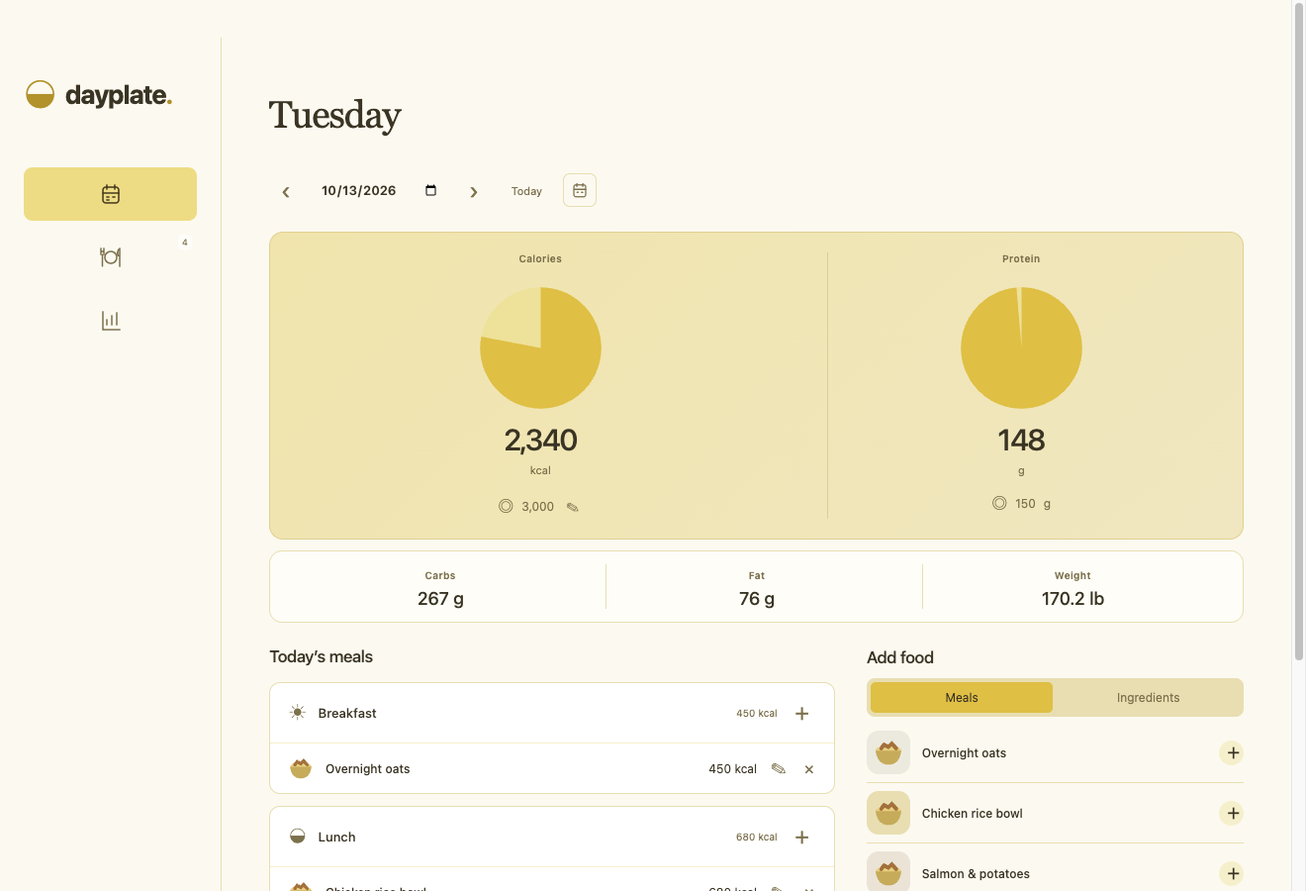
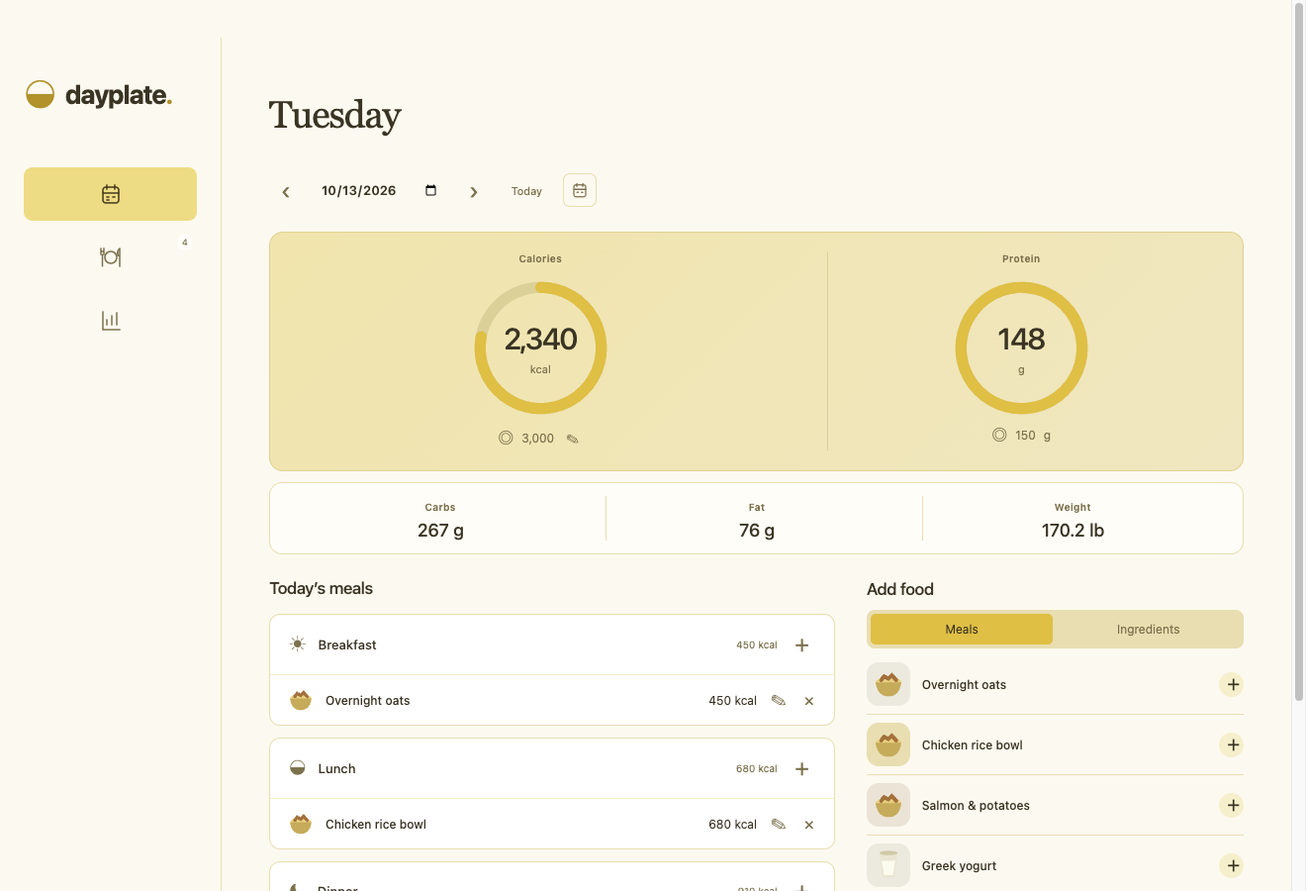
Replace filled nutrition pies with yellow progress rings

diff --git a/src/polish.css b/src/polish.css
@@ -1,13 +1,17 @@
 :root{--green:#718162}html{scroll-behavior:smooth}button{-webkit-tap-highlight-color:transparent;transition:background .2s,box-shadow .2s,transform .18s}button:active:not(:disabled){transform:scale(.96)}input,select,textarea{font:inherit}textarea{resize:vertical;padding:12px;border:1px solid var(--line);border-radius:9px;background:#fffdf8;color:inherit}textarea:focus-visible{outline:3px solid #8b7b55;outline-offset:2px}main>section:not([hidden]){animation:page-enter .38s cubic-bezier(.2,.8,.2,1)}.analytics-stat{animation:card-enter .5s cubic-bezier(.2,.8,.2,1) both}.analytics-stat:nth-child(2){animation-delay:40ms}.analytics-stat:nth-child(3){animation-delay:80ms}.analytics-stat:nth-child(4){animation-delay:120ms}.analytics-stat:nth-child(5){animation-delay:160ms}.analytics-stat:nth-child(6){animation-delay:200ms}.analytics-stats{grid-template-columns:repeat(3,minmax(0,1fr))}.analytics-stat{box-shadow:0 3px 16px #76612d05}.analytics-bar>span{transform-origin:bottom;animation:bar-grow .6s cubic-bezier(.2,.8,.2,1) both}.analytics-bar:nth-child(3n)>span{animation-delay:50ms}.analytics-bar:nth-child(3n+1)>span{animation-delay:100ms}.analytics-bar:nth-child(3n+2)>span{animation-delay:150ms}.weight-line{stroke-dasharray:1;stroke-dashoffset:1;animation:line-draw 1s ease forwards}.weight-point{transform-box:fill-box;transform-origin:center;animation:point-pop .45s .4s both}.weight-trend{width:100%;height:210px;display:block;margin:20px 0}.weight-trend text{font-size:10px;fill:#8b7b55}.weight-overview{display:grid;grid-template-columns:repeat(3,minmax(0,1fr));gap:15px;padding:20px 0 4px}.weight-overview strong{display:block;font-size:28px;font-weight:500;margin-top:13px;letter-spacing:-.6px}.weight-overview strong small{font-size:12px;color:var(--muted);font-weight:400;letter-spacing:0}.weight-overview p{font-size:10px;color:var(--muted);line-height:1.7;margin-bottom:0}.weight-empty{font-size:12px;color:var(--muted);padding:25px 0 10px}.weight-history-details{border-top:1px solid var(--line);padding-top:16px;font-size:11px;color:var(--muted)}.weight-history-details summary{cursor:pointer}.weight-history button{font-size:12px;padding:0;text-align:left}.weight-analytics .primary{font-size:11px}.danger{color:#ae6654}.modal-actions .danger{margin-right:auto}dialog[open]{animation:sheet-in .32s cubic-bezier(.18,.9,.25,1.1)}dialog::backdrop{animation:backdrop-in .2s ease}.analytics-ranges button[aria-pressed=true]{box-shadow:0 2px 5px #97732115}.analytics-panel .section-heading{flex-wrap:wrap}.nav:hover{background:#f5edd3}.nav.active:hover{background:#f6df8b}#toast.visible{animation:toast-in .25s ease}
 @keyframes page-enter{from{opacity:0;transform:translateY(12px)}to{opacity:1;transform:none}}@keyframes card-enter{from{opacity:0;transform:translateY(12px)}to{opacity:1;transform:none}}@keyframes bar-grow{from{transform:scaleY(0)}to{transform:scaleY(1)}}@keyframes line-draw{to{stroke-dashoffset:0}}@keyframes point-pop{from{opacity:0;transform:scale(0)}to{opacity:1;transform:scale(1)}}@keyframes sheet-in{from{opacity:0;transform:translateY(22px) scale(.98)}to{opacity:1;transform:none}}@keyframes backdrop-in{from{opacity:0}to{opacity:1}}@keyframes toast-in{from{opacity:0;translate:0 8px}to{opacity:1;translate:0 0}}@keyframes orbit{to{transform:rotate(360deg)}}
 @media(max-width:1150px){.analytics-stats{grid-template-columns:repeat(2,minmax(0,1fr))}}
-@media(max-width:700px){body{padding-bottom:calc(90px + env(safe-area-inset-bottom));-webkit-text-size-adjust:100%}.titlebar{display:none}.sidebar{inset:auto 0 0;width:auto;height:calc(72px + env(safe-area-inset-bottom));padding:8px 12px calc(8px + env(safe-area-inset-bottom));background:#fffdf8ef;backdrop-filter:blur(18px);border-right:0;border-top:1px solid var(--line);z-index:4}.brand{display:none}.sidebar nav{display:grid;grid-template-columns:repeat(3,1fr);gap:5px;margin:0}.nav{display:flex;flex-direction:column;gap:4px;padding:9px 4px;font-size:9px;border-radius:12px;min-width:0}.nav:after{content:attr(title);font-size:9px;font-weight:500}.nav svg{width:21px;height:21px}.nav small{display:none}main{margin-left:0;max-width:none;padding:calc(25px + env(safe-area-inset-top)) 18px 12px}header{margin-bottom:22px;gap:12px}h1{font-size:34px;margin:6px 0}header .primary{padding:11px 13px;white-space:nowrap}.date-row{gap:8px;margin-bottom:18px;flex-wrap:wrap}.date-control{gap:0}.date-control input{width:135px}.date-control button{padding:4px 8px}.date-row .text-button{margin-left:auto}.summary{grid-template-columns:1fr;padding:23px 21px;gap:20px;margin-bottom:25px;border-radius:18px}.calorie-number{font-size:38px;margin:13px 0 18px}.nutrition-summary{border-left:0;border-top:1px solid #ddcd96;padding:20px 0 0;grid-template-columns:1fr 1fr;gap:16px}.protein-number{margin:9px 0;font-size:29px}.content-grid{grid-template-columns:1fr;gap:28px}.quick-panel{border-top:1px solid var(--line);padding-top:24px}.entry{padding:12px 10px;gap:7px}.entry-info strong{font-size:12px}.entry-calories{font-size:11px}.entry-calories small{max-width:120px;white-space:normal;line-height:1.5}.entry .icon-button{padding:6px 3px}.food-tabs button{padding:10px}.quick-meal{padding:13px 0}#meal-library{grid-template-columns:1fr}.library-toolbar input{width:100%}.analytics-toolbar{align-items:flex-start;flex-direction:column;gap:15px;margin-bottom:22px}.analytics-ranges{max-width:100%}.analytics-ranges button{padding:9px 12px;font-size:11px}.analytics-stat{padding:18px 13px;border-radius:13px}.analytics-stat>div{margin:14px 0 10px;white-space:normal;line-height:1.3}.analytics-stat strong{font-size:28px}.analytics-stat>div span{white-space:nowrap}.analytics-stat .section-label{font-size:10px}.analytics-stat small{font-size:9px}.analytics-stats{gap:10px}.analytics-method{font-size:10px}.analytics-panel{padding:20px 15px;border-radius:15px}.analytics-panel .section-heading{align-items:flex-start;gap:16px}.analytics-panel .section-heading>span{font-size:9px}.analytics-panel .section-heading .analytics-ranges{width:100%;justify-content:space-between}.analytics-chart-bars{height:155px}.analytics-chart-scale{height:175px}.analytics-chart-scroll{padding-bottom:34px}.analytics-bar>span{border-radius:3px 3px 0 0}.analytics-insights{grid-template-columns:1fr}.analytics-insights .analytics-panel{padding:18px}.weight-overview{gap:9px}.weight-overview .section-label{font-size:9px}.weight-overview strong{font-size:24px}.weight-overview strong small{font-size:10px}.weight-overview p{font-size:9px}.weight-trend{height:175px}.weight-analytics .primary{padding:10px 11px}.weight-analytics .section-heading{gap:12px}.analytics-empty{padding:40px 20px}dialog{width:calc(100% - 16px);max-height:calc(100dvh - env(safe-area-inset-top) - 16px);padding:22px 18px;border-radius:20px;margin:auto auto 8px}.modal-header h2{font-size:25px}.form-row{gap:10px}.form-row .field input,.form-row .field select{width:100%;min-width:0;font-size:16px}.form-hero input{font-size:21px}.nutrition-inputs{gap:10px}.nutrition-field{padding:14px}.unit-input input{font-size:28px}.studio-form input,.studio-form select,.studio-form textarea{font-size:16px}.ingredient-values{gap:7px}.ingredient-values .unit-input input{font-size:19px}.ingredient-picker{flex-wrap:wrap}.ingredient-picker .primary{padding:10px}.ingredient-top input{font-size:16px}.ingredient-values>.field{font-size:9px}.ingredient-values .nutrition-field{padding:9px}.modal-actions{gap:10px;flex-wrap:wrap}.modal-actions .primary{padding:12px 16px}.weight-input-row{grid-template-columns:1.5fr 1fr}.calendar-day{height:55px;font-size:12px}.calendar-day small{font-size:8px}.calendar-grid{gap:4px}.hist-day small{font-size:7px}.histogram{gap:2px}#toast{bottom:calc(90px + env(safe-area-inset-bottom));max-width:calc(100% - 32px);width:max-content;text-align:center;font-size:12px}}.analytics-stats{margin-bottom:24px}.stat-info{font-size:10px;color:#b3a27a;cursor:help}.chart-legend{display:flex;justify-content:flex-end;gap:12px;font-size:11px;color:var(--muted);padding-top:10px}.chart-legend span{cursor:help}.analytics-toolbar>span:empty{display:none}.analytics-toolbar{justify-content:flex-end}.weight-history-details summary{font-size:11px}.analytics-empty h2{margin-bottom:20px}.calorie-summary{display:flex;flex-direction:column;align-items:center}.calorie-ring-wrap{position:relative;width:190px;height:190px;margin:15px 0 5px}.calorie-ring{width:100%;height:100%;overflow:visible;transform:none}.calorie-ring-track{fill:#f4e4a0}.nutrition-pie-fill{fill:#edc444}.calorie-ring-value{display:flex;align-items:center;justify-content:center;flex-direction:column;pointer-events:none}.calorie-ring-value>span{font-size:36px;font-weight:500;letter-spacing:-1.5px;line-height:1.2}.calorie-ring-value small{font-size:11px;color:var(--muted);margin-top:6px}.calorie-target{display:flex;align-items:center;justify-content:center;gap:8px;font-size:12px;color:var(--muted);margin-top:3px}.calorie-target>span:first-child{font-size:16px}.calorie-target .icon-button{font-size:14px}.calorie-delta{font-size:10px;color:var(--muted);margin-top:7px;min-height:12px}.summary{background:linear-gradient(135deg,#f6e7b3,#f5e9c6);border-color:#e8d598}.nutrition-summary{border-left:1px solid #e2d3a2}
+@media(max-width:700px){body{padding-bottom:calc(90px + env(safe-area-inset-bottom));-webkit-text-size-adjust:100%}.titlebar{display:none}.sidebar{inset:auto 0 0;width:auto;height:calc(72px + env(safe-area-inset-bottom));padding:8px 12px calc(8px + env(safe-area-inset-bottom));background:#fffdf8ef;backdrop-filter:blur(18px);border-right:0;border-top:1px solid var(--line);z-index:4}.brand{display:none}.sidebar nav{display:grid;grid-template-columns:repeat(3,1fr);gap:5px;margin:0}.nav{display:flex;flex-direction:column;gap:4px;padding:9px 4px;font-size:9px;border-radius:12px;min-width:0}.nav:after{content:attr(title);font-size:9px;font-weight:500}.nav svg{width:21px;height:21px}.nav small{display:none}main{margin-left:0;max-width:none;padding:calc(25px + env(safe-area-inset-top)) 18px 12px}header{margin-bottom:22px;gap:12px}h1{font-size:34px;margin:6px 0}header .primary{padding:11px 13px;white-space:nowrap}.date-row{gap:8px;margin-bottom:18px;flex-wrap:wrap}.date-control{gap:0}.date-control input{width:135px}.date-control button{padding:4px 8px}.date-row .text-button{margin-left:auto}.summary{grid-template-columns:1fr;padding:23px 21px;gap:20px;margin-bottom:25px;border-radius:18px}.calorie-number{font-size:38px;margin:13px 0 18px}.nutrition-summary{border-left:0;border-top:1px solid #ddcd96;padding:20px 0 0;grid-template-columns:1fr 1fr;gap:16px}.protein-number{margin:9px 0;font-size:29px}.content-grid{grid-template-columns:1fr;gap:28px}.quick-panel{border-top:1px solid var(--line);padding-top:24px}.entry{padding:12px 10px;gap:7px}.entry-info strong{font-size:12px}.entry-calories{font-size:11px}.entry-calories small{max-width:120px;white-space:normal;line-height:1.5}.entry .icon-button{padding:6px 3px}.food-tabs button{padding:10px}.quick-meal{padding:13px 0}#meal-library{grid-template-columns:1fr}.library-toolbar input{width:100%}.analytics-toolbar{align-items:flex-start;flex-direction:column;gap:15px;margin-bottom:22px}.analytics-ranges{max-width:100%}.analytics-ranges button{padding:9px 12px;font-size:11px}.analytics-stat{padding:18px 13px;border-radius:13px}.analytics-stat>div{margin:14px 0 10px;white-space:normal;line-height:1.3}.analytics-stat strong{font-size:28px}.analytics-stat>div span{white-space:nowrap}.analytics-stat .section-label{font-size:10px}.analytics-stat small{font-size:9px}.analytics-stats{gap:10px}.analytics-method{font-size:10px}.analytics-panel{padding:20px 15px;border-radius:15px}.analytics-panel .section-heading{align-items:flex-start;gap:16px}.analytics-panel .section-heading>span{font-size:9px}.analytics-panel .section-heading .analytics-ranges{width:100%;justify-content:space-between}.analytics-chart-bars{height:155px}.analytics-chart-scale{height:175px}.analytics-chart-scroll{padding-bottom:34px}.analytics-bar>span{border-radius:3px 3px 0 0}.analytics-insights{grid-template-columns:1fr}.analytics-insights .analytics-panel{padding:18px}.weight-overview{gap:9px}.weight-overview .section-label{font-size:9px}.weight-overview strong{font-size:24px}.weight-overview strong small{font-size:10px}.weight-overview p{font-size:9px}.weight-trend{height:175px}.weight-analytics .primary{padding:10px 11px}.weight-analytics .section-heading{gap:12px}.analytics-empty{padding:40px 20px}dialog{width:calc(100% - 16px);max-height:calc(100dvh - env(safe-area-inset-top) - 16px);padding:22px 18px;border-radius:20px;margin:auto auto 8px}.modal-header h2{font-size:25px}.form-row{gap:10px}.form-row .field input,.form-row .field select{width:100%;min-width:0;font-size:16px}.form-hero input{font-size:21px}.nutrition-inputs{gap:10px}.nutrition-field{padding:14px}.unit-input input{font-size:28px}.studio-form input,.studio-form select,.studio-form textarea{font-size:16px}.ingredient-values{gap:7px}.ingredient-values .unit-input input{font-size:19px}.ingredient-picker{flex-wrap:wrap}.ingredient-picker .primary{padding:10px}.ingredient-top input{font-size:16px}.ingredient-values>.field{font-size:9px}.ingredient-values .nutrition-field{padding:9px}.modal-actions{gap:10px;flex-wrap:wrap}.modal-actions .primary{padding:12px 16px}.weight-input-row{grid-template-columns:1.5fr 1fr}.calendar-day{height:55px;font-size:12px}.calendar-day small{font-size:8px}.calendar-grid{gap:4px}.hist-day small{font-size:7px}.histogram{gap:2px}#toast{bottom:calc(90px + env(safe-area-inset-bottom));max-width:calc(100% - 32px);width:max-content;text-align:center;font-size:12px}}.analytics-stats{margin-bottom:24px}.stat-info{font-size:10px;color:#b3a27a;cursor:help}.chart-legend{display:flex;justify-content:flex-end;gap:12px;font-size:11px;color:var(--muted);padding-top:10px}.chart-legend span{cursor:help}.analytics-toolbar>span:empty{display:none}.analytics-toolbar{justify-content:flex-end}.weight-history-details summary{font-size:11px}.analytics-empty h2{margin-bottom:20px}.calorie-summary{display:flex;flex-direction:column;align-items:center}.calorie-ring-wrap{position:relative;width:190px;height:190px;margin:15px 0 5px}.calorie-ring{width:100%;height:100%;overflow:visible;transform:none}.calorie-ring-track{fill:none;stroke:#e4d5a1;stroke-width:14}.calorie-ring-value{display:flex;align-items:center;justify-content:center;flex-direction:column;pointer-events:none}.calorie-ring-value>span{font-size:36px;font-weight:500;letter-spacing:-1.5px;line-height:1.2}.calorie-ring-value small{font-size:11px;color:var(--muted);margin-top:6px}.calorie-target{display:flex;align-items:center;justify-content:center;gap:8px;font-size:12px;color:var(--muted);margin-top:3px}.calorie-target>span:first-child{font-size:16px}.calorie-target .icon-button{font-size:14px}.calorie-delta{font-size:10px;color:var(--muted);margin-top:7px;min-height:12px}.summary{background:linear-gradient(135deg,#f6e7b3,#f5e9c6);border-color:#e8d598}.nutrition-summary{border-left:1px solid #e2d3a2}
 @media(max-width:700px){.summary{grid-template-columns:1.05fr 1fr;gap:14px;padding:22px 15px;align-items:center}.calorie-ring-wrap{width:148px;height:148px;margin:13px 0 4px}.calorie-ring-value>span{font-size:28px}.nutrition-summary{display:flex;flex-direction:column;align-items:stretch;border-top:0;border-left:1px solid #ddcd96;padding:3px 0 3px 16px;gap:18px}.protein-number{font-size:26px;margin-top:10px}.protein-number small{font-size:10px}.weight-card{padding:12px}.weight-card strong{font-size:21px}.other-macros{gap:10px;font-size:10px}.other-macros strong{font-size:12px}.calorie-target{font-size:11px}.calorie-delta{font-size:9px}.nutrition-summary #macro-note{display:none}}
 @media(prefers-reduced-motion:reduce){*,*:before,*:after{animation:none!important;transition:none!important;scroll-behavior:auto!important}.weight-line{stroke-dashoffset:0}}.protein-summary{display:flex;flex-direction:column;align-items:center}.nutrition-summary{display:block;padding-left:0}.protein-ring-wrap{margin-top:15px}#protein-note{display:inline;font-size:10px}.daily-details{display:grid;grid-template-columns:repeat(3,1fr);gap:15px;border:1px solid var(--line);border-radius:13px;padding:17px 24px;margin:-13px 0 30px;background:#fffdf8}.daily-details>div,.daily-weight{text-align:center}.daily-details strong{display:block;font-size:20px;font-weight:500;margin-top:9px}.daily-weight{padding:0}.daily-details>div+div,.daily-weight{border-left:1px solid var(--line)}#mobile-journal,#mobile-meal-pages,.analytics-pane-tabs,.mobile-weight-history{display:none}.mobile-pager{display:flex;justify-content:center;gap:16px;align-items:center;font-size:10px;color:var(--muted);height:30px}.mobile-pager button{font-size:24px;width:34px;height:30px;border:1px solid var(--line);border-radius:8px;line-height:1}.mobile-entry{display:flex;align-items:center;gap:10px;width:100%;text-align:left;padding:10px 0;border-bottom:1px solid var(--line);height:57px}.mobile-entry>span:nth-child(2){flex:1;min-width:0}.mobile-entry strong{display:block;font-size:12px;font-weight:500;white-space:nowrap;overflow:hidden;text-overflow:ellipsis}.mobile-entry small{display:block;font-size:9px;color:var(--muted);margin-top:4px}.mobile-entry b{font-size:12px;font-weight:500;text-align:right}.mobile-entry>span:last-child{font-size:12px;color:var(--muted)}.mobile-empty{display:grid;place-items:center;height:110px;color:#c9b987}.mobile-add{padding:5px 12px;font-size:22px;border-radius:9px}.analytics-pane-tabs{gap:4px}.analytics-pane-tabs button{width:30px;height:32px;border-radius:8px;font-size:20px;color:var(--muted)}.analytics-pane-tabs button[aria-pressed=true]{background:#f5e2a0;color:#59471f}
 @media(max-width:700px){body{overflow:hidden;padding-bottom:0}main{height:calc(100dvh - 72px - env(safe-area-inset-bottom));padding:calc(10px + env(safe-area-inset-top)) 18px 8px;overflow:hidden}header{margin-bottom:12px}h1{font-size:29px}.date-row{margin-bottom:10px}.summary{grid-template-columns:1fr 1fr;padding:15px 12px;gap:10px;margin-bottom:13px}.nutrition-summary{display:block;border-top:0;padding:0;border-left:1px solid #ddcd96}.calorie-ring-wrap{width:min(35vw,140px);height:min(35vw,140px);margin:12px 0 3px}.protein-ring-wrap{margin-top:12px}.calorie-ring-value>span{font-size:27px}.calorie-ring-value small{font-size:10px}.calorie-delta{margin-top:3px;font-size:9px}.calorie-target{height:22px;margin-top:3px}.protein-summary{padding-bottom:12px}.daily-details{padding:11px 10px;margin:0 0 17px;gap:0}.daily-details strong{font-size:17px;margin-top:6px}.daily-details .section-label{font-size:9px}#journal-view>.content-grid{display:none}#mobile-journal{display:block}#mobile-journal .section-heading{margin-bottom:5px;height:30px}#mobile-journal .section-heading h2{font-size:15px}.mobile-day-list{min-height:110px}.mobile-pager{margin-top:8px}#mobile-meal-pages{display:block}.analytics-toolbar{flex-direction:row;justify-content:space-between;align-items:center;margin-bottom:14px;gap:6px}.analytics-toolbar .analytics-ranges{padding:3px;gap:2px}.analytics-toolbar .analytics-ranges button{padding:7px 11px;font-size:10px}.analytics-pane-tabs{display:flex}.analytics-stats{gap:8px;margin-bottom:14px}.analytics-stat{padding:12px 11px}.analytics-stat>div{margin:9px 0 6px;line-height:1.1}.analytics-stat strong{font-size:24px}.analytics-stat .section-label{font-size:9px}.analytics-stat small{font-size:8px}.analytics-stat>div span{font-size:9px}.stat-info{display:none}.analytics-panel{padding:14px 12px;margin-bottom:0}.intake-panel .section-heading{margin-bottom:8px;gap:8px}.intake-panel .section-heading p{display:none}.intake-panel h2{font-size:13px}.intake-panel .analytics-ranges{padding:3px}.intake-panel .analytics-ranges button{padding:6px 10px;font-size:10px}.analytics-chart-scroll{padding-top:8px;padding-bottom:25px}.analytics-chart-bars{height:110px}.analytics-chart-scale{height:118px;padding-top:8px;font-size:8px}.analytics-chart-bars small{font-size:8px}.analytics-chart-bars{min-width:0!important;gap:3px}.analytics-bar{min-width:0}.analytics-bar small{display:none}.analytics-goal span{font-size:8px}.weight-overview{padding:9px 0 0;gap:8px}.weight-overview strong{font-size:24px;margin-top:8px}.weight-overview p{font-size:8px;margin:5px 0 0}.weight-trend{height:135px;margin:13px 0}.weight-history-details{display:none}.mobile-weight-history{display:block}.mobile-weight-history .weight-history>div{padding:9px 0;font-size:11px}.mobile-weight-history button{font-size:11px}.weight-overview .section-label{font-size:8px}.weight-analytics .section-heading{margin-bottom:10px}.weight-analytics .section-heading h2{font-size:15px}.weight-analytics .primary{padding:5px 13px;font-size:22px}#meals-view .library-toolbar{margin:8px 0 13px}#meal-library{gap:10px}.meal-card{padding:14px;display:grid;grid-template-columns:32px 1fr;gap:0 10px;align-items:center}.meal-card>.food-icon{width:30px;height:30px;border-radius:9px;grid-row:1/3}.meal-card>.food-icon svg{width:25px;height:25px}.meal-card h3{font-size:14px;line-height:1.2;margin:0}.meal-card p{margin:5px 0;font-size:9px;white-space:nowrap;overflow:hidden;text-overflow:ellipsis;max-height:16px}.meal-card .actions{grid-column:1/3;margin-top:7px;gap:6px;justify-content:flex-end}.meal-card .actions .primary{padding:7px 13px;font-size:10px;margin-left:8px}.meal-card .actions .text-button{font-size:9px}.meal-card .actions .text-button:nth-child(2){display:none}dialog{max-height:calc(100dvh - env(safe-area-inset-top) - env(safe-area-inset-bottom) - 16px);margin:auto auto calc(8px + env(safe-area-inset-bottom));padding:20px 16px;overflow:auto}.modal-header h2{font-size:25px}#mobile-food-search{width:100%;font-size:16px}.meal-choice{padding:9px;gap:9px;height:56px}.meal-choice .food-icon{width:32px;height:32px}.meal-choice .food-icon svg{width:28px;height:28px}.meal-choice strong{font-size:12px;white-space:nowrap;overflow:hidden;text-overflow:ellipsis;flex:1}.meal-choice span:last-child{font-size:10px;white-space:nowrap}.footnote,.hist-note{display:none}.modal-description{margin:8px 0 12px;font-size:10px}}
 @media(max-width:700px) and (max-height:740px){main{padding-top:calc(7px + env(safe-area-inset-top))}header{margin-bottom:9px}h1{font-size:26px}.calorie-ring-wrap{width:116px;height:116px;margin-top:8px}.calorie-ring-value>span{font-size:24px}.summary{padding:12px 8px;margin-bottom:10px}.daily-details{padding:9px;margin-bottom:12px}.mobile-entry{height:48px;padding:7px 0}.analytics-stat{padding:10px}.analytics-stat strong{font-size:22px}.analytics-stat small{display:none}.analytics-stats{margin-bottom:10px}.analytics-toolbar{margin-bottom:10px}}.footnote,.hist-note,.modal-description,.analytics-method,.analytics-stat>small,.analytics-panel .section-heading p,.analytics-insights p,.weight-overview p,.quick-meal small,.meal-card p,.entry-info small,.entry-calories small,.mobile-entry>span:nth-child(2)>small,.calorie-delta,.builder-label small{display:none!important}.stat-info{display:none}.analytics-stat>div{margin-bottom:0}.analytics-insights .analytics-panel{padding-bottom:20px}.mobile-entry b small{margin-top:2px}
 @media(min-width:701px){header{margin-bottom:24px}.summary{padding:20px 28px;margin-bottom:24px}.calorie-ring-wrap{width:145px;height:145px;margin:12px 0 3px}.calorie-ring-value>span{font-size:30px}.daily-details{padding:13px 20px;margin-bottom:24px}.daily-details strong{font-size:18px;margin-top:6px}.quick-meal{padding:8px 0}.entry{padding-top:10px;padding-bottom:10px}}
 
-@media(max-width:700px) and (max-height:900px){#journal-view .calorie-ring-wrap{width:min(30vw,116px);height:min(30vw,116px)}#journal-view .summary{padding:12px 8px;margin-bottom:10px}#journal-view .daily-details{padding:9px;margin-bottom:12px}#journal-view .mobile-entry{height:48px;padding:7px 0}}/* Filled goal pies with totals underneath,on desktop and phone. */
-.calorie-ring-wrap{height:auto!important}.nutrition-pie{display:block;height:auto;aspect-ratio:1;overflow:hidden}.calorie-ring-value{margin:2px 0 12px}.nutrition-pie circle,.nutrition-pie path{stroke:none}.nutrition-pie-fill{fill:#edc444}
-@media(max-width:700px){#journal-view .calorie-ring-wrap{width:min(28vw,108px)}.calorie-ring-value{margin-bottom:4px}.protein-summary{padding-bottom:0}}
+@media(max-width:700px) and (max-height:900px){#journal-view .calorie-ring-wrap{width:min(30vw,116px);height:min(30vw,116px)}#journal-view .summary{padding:12px 8px;margin-bottom:10px}#journal-view .daily-details{padding:9px;margin-bottom:12px}#journal-view .mobile-entry{height:48px;padding:7px 0}}/* Circular progress rings keep the totals in the center. */
+.calorie-ring-wrap{height:auto!important;aspect-ratio:1}
+.nutrition-ring{display:block;height:auto;aspect-ratio:1;transform:rotate(-90deg)}
+.nutrition-ring-fill{fill:none;stroke:#edc444;stroke-width:14;stroke-linecap:round;stroke-dasharray:1;stroke-dashoffset:1;transition:stroke-dashoffset .85s cubic-bezier(.2,.8,.2,1)}
+.calorie-ring-value{position:absolute;inset:0;margin:0}
+@media(max-width:700px){#journal-view .calorie-ring-wrap{width:min(30vw,116px)}.protein-summary{padding-bottom:0}}
+@media(prefers-reduced-motion:reduce){.nutrition-ring-fill{transition:none}}

diff --git a/src/index.html b/src/index.html
@@ -2,7 +2,7 @@
 <div class="titlebar"></div><aside class="sidebar"><div class="brand"><span class="brand-icon">◒</span> dayplate<span class="brand-dot">.</span></div><nav><button class="nav active" data-view="journal" aria-label="Journal" title="Journal"><svg viewBox="0 0 24 24" aria-hidden="true"><rect x="4" y="5" width="16" height="16" rx="3"/><path d="M8 3v4m8-4v4M4 11h16m-12 4h2m4 0h2m-8 3h2"/></svg></button><button class="nav" data-view="meals" aria-label="Meals" title="Meals"><svg viewBox="0 0 24 24" aria-hidden="true"><circle cx="12" cy="12" r="6"/><path d="M2 3v6m3-6v6M2 6h3M3.5 9v12M21 3v18m0-18c-3 2-3 8 0 8"/></svg><small id="meal-count"></small></button><button class="nav" data-view="analytics" aria-label="Analytics" title="Analytics"><svg viewBox="0 0 24 24" aria-hidden="true"><path d="M4 3v18h17M8 16v-5m5 5V7m5 9V4"/></svg></button></nav></aside>
 <main><header><div><h1 id="page-title"></h1></div><button class="primary" id="header-add" hidden>＋ Meal</button></header>
 <section id="journal-view"><div class="date-row"><div class="date-control"><button id="prev-date" aria-label="Previous day">‹</button><input id="journal-date" type="date" aria-label="Journal date"><button id="next-date" aria-label="Next day">›</button></div><button class="text-button" id="today">Today</button><button class="calendar-button" id="open-calendar" aria-label="Calendar" title="Calendar"><svg viewBox="0 0 24 24" aria-hidden="true"><rect x="4" y="5" width="16" height="16" rx="3"/><path d="M8 3v4m8-4v4M4 11h16m-12 4h2m4 0h2"/></svg></button><span class="date-note" id="date-note"></span></div>
-<div class="summary"><div class="calorie-summary"><div class="section-label">Calories</div><div class="calorie-ring-wrap"><svg class="calorie-ring nutrition-pie" viewBox="0 0 180 180" role="img" aria-label="Calories toward daily target"><circle class="calorie-ring-track" cx="90" cy="90" r="76"/><path id="calorie-ring-fill" class="nutrition-pie-fill"/></svg><div class="calorie-ring-value"><span id="consumed">0</span><small>kcal</small></div></div><div class="calorie-target" title="Daily calorie target"><span aria-hidden="true">◎</span><span id="goal-label">3,000</span><button class="icon-button" id="edit-goal" aria-label="Edit goal">✎</button></div><div id="remaining" class="calorie-delta"></div><div class="progress" hidden><div id="progress-fill"></div></div></div><div class="summary-aside nutrition-summary"><div class="protein-summary"><span class="section-label">Protein</span><div class="calorie-ring-wrap protein-ring-wrap"><svg class="calorie-ring protein-ring nutrition-pie" viewBox="0 0 180 180" role="img" aria-label="Protein toward daily target"><circle class="calorie-ring-track" cx="90" cy="90" r="76"/><path id="protein-ring-fill" class="nutrition-pie-fill"/></svg><div class="calorie-ring-value"><span id="protein-total">0</span><small>g <span id="protein-note"></span></small></div></div><div class="calorie-target" title="Daily protein target"><span aria-hidden="true">◎</span><span id="protein-goal">150</span><span>g</span></div><small id="protein-remaining" hidden></small></div></div><span id="logged-count" hidden></span></div><div class="daily-details"><div><span class="section-label">Carbs</span><strong id="carbs-total">—</strong></div><div><span class="section-label">Fat</span><strong id="fat-total">—</strong></div><button id="weigh-in" class="daily-weight"><span class="section-label">Weight</span><strong id="weight-value">＋</strong></button><small id="macro-note" hidden></small></div><section id="mobile-journal"></section>
+<div class="summary"><div class="calorie-summary"><div class="section-label">Calories</div><div class="calorie-ring-wrap"><svg class="calorie-ring nutrition-ring" viewBox="0 0 180 180" role="img" aria-label="Calories toward daily target"><circle class="calorie-ring-track" cx="90" cy="90" r="76"/><circle id="calorie-ring-fill" class="nutrition-ring-fill" cx="90" cy="90" r="76" pathLength="1"/></svg><div class="calorie-ring-value"><span id="consumed">0</span><small>kcal</small></div></div><div class="calorie-target" title="Daily calorie target"><span aria-hidden="true">◎</span><span id="goal-label">3,000</span><button class="icon-button" id="edit-goal" aria-label="Edit goal">✎</button></div><div id="remaining" class="calorie-delta"></div><div class="progress" hidden><div id="progress-fill"></div></div></div><div class="summary-aside nutrition-summary"><div class="protein-summary"><span class="section-label">Protein</span><div class="calorie-ring-wrap protein-ring-wrap"><svg class="calorie-ring protein-ring nutrition-ring" viewBox="0 0 180 180" role="img" aria-label="Protein toward daily target"><circle class="calorie-ring-track" cx="90" cy="90" r="76"/><circle id="protein-ring-fill" class="nutrition-ring-fill" cx="90" cy="90" r="76" pathLength="1"/></svg><div class="calorie-ring-value"><span id="protein-total">0</span><small>g <span id="protein-note"></span></small></div></div><div class="calorie-target" title="Daily protein target"><span aria-hidden="true">◎</span><span id="protein-goal">150</span><span>g</span></div><small id="protein-remaining" hidden></small></div></div><span id="logged-count" hidden></span></div><div class="daily-details"><div><span class="section-label">Carbs</span><strong id="carbs-total">—</strong></div><div><span class="section-label">Fat</span><strong id="fat-total">—</strong></div><button id="weigh-in" class="daily-weight"><span class="section-label">Weight</span><strong id="weight-value">＋</strong></button><small id="macro-note" hidden></small></div><section id="mobile-journal"></section>
 <div class="content-grid"><section><div class="section-heading"><h2>Today’s meals</h2><span id="entry-count"></span></div><div id="journal-list"></div></section><aside class="quick-panel"><div class="section-heading"><h2>Add food</h2></div><p class="muted"></p><div class="food-tabs" role="tablist" aria-label="Food type"><button role="tab" aria-selected="true" data-food-tab="meals">Meals</button><button role="tab" aria-selected="false" data-food-tab="foods">Ingredients</button></div><div id="quick-meals"></div><button class="wide-button" id="new-meal">＋ Meal</button></aside></div></section>
 <section id="meals-view" hidden><div class="library-toolbar"><input type="search" id="meal-search" placeholder="Find a meal…" aria-label="Search meals"><span class="muted"></span></div><div id="meal-library"></div></section>
 <section id="analytics-view" hidden></section>

diff --git a/src/app.js b/src/app.js
@@ -41,24 +41,18 @@ function save() {
 function toast(message) { $('#toast').textContent=message; $('#toast').classList.add('visible'); clearTimeout(toastTimer); toastTimer=setTimeout(()=>$('#toast').classList.remove('visible'),3000); }
 function commit(message) { if(save()) toast(message); render(); }
 function dayTitle() { return new Date(date+'T12:00:00').toLocaleDateString(undefined, {weekday:'long'}); }
-function renderNutritionPie(selector, value, goal) {
+function renderNutritionRing(selector, value, goal) {
   const ratio = goal > 0 ? Math.max(0, Math.min(value / goal, 1)) : 0;
-  let sector = '';
-  if (ratio === 1) {
-    sector = 'M 90 14 A 76 76 0 1 1 90 166 A 76 76 0 1 1 90 14 Z';
-  } else if (ratio > 0) {
-    const angle = ratio * Math.PI * 2 - Math.PI / 2;
-    const x = 90 + 76 * Math.cos(angle), y = 90 + 76 * Math.sin(angle);
-    sector = `M 90 90 L 90 14 A 76 76 0 ${ratio > .5 ? 1 : 0} 1 ${x} ${y} Z`;
-  }
-  $(selector).setAttribute('d', sector);
+  const ring = $(selector);
+  ring.style.strokeDashoffset = 1 - ratio;
+  ring.style.opacity = ratio > 0 ? 1 : 0;
 }
 function render() {
   if (view === 'journal') $('#page-title').textContent = dayTitle();
   const entries = state.entries.filter(e=>e.date===date), total=entries.reduce((s,e)=>s+entryCalories(e),0);
   $('#journal-date').value=date; $('#consumed').textContent=fmt(total); $('#goal-label').textContent=state.goal?fmt(state.goal):'—'; $('#edit-goal').title=state.goal?'Edit goal':'Set goal';
   $('#remaining').textContent=!state.goal?'—':total<=state.goal?`${fmt(state.goal-total)} kcal remaining`:`+${fmt(total-state.goal)} kcal`;
-  renderNutritionPie('#calorie-ring-fill', total, state.goal);
+  renderNutritionRing('#calorie-ring-fill', total, state.goal);
   $('.calorie-ring').setAttribute('aria-label',`${fmt(total)} kcal eaten${state.goal?`, target ${fmt(state.goal)} kcal`:''}`);
   $('#progress-fill').style.width=`${state.goal?Math.min(total/state.goal*100,100):0}%`;
   $('#logged-count').textContent=`${entries.length} meal${entries.length===1?'':'s'} logged`;
@@ -67,7 +61,7 @@ function render() {
   $('#protein-goal').textContent=state.proteinGoal;
   const protein=entries.reduce((sum,e)=>sum+entryProtein(e),0);
   $('#protein-remaining').textContent=protein<=state.proteinGoal?`${Number((state.proteinGoal-protein).toFixed(1))} g remaining`:`${Number((protein-state.proteinGoal).toFixed(1))} g above goal`;
-  renderNutritionPie('#protein-ring-fill', protein, state.proteinGoal);
+  renderNutritionRing('#protein-ring-fill', protein, state.proteinGoal);
   $('.protein-ring').setAttribute('aria-label',`${Number(protein.toFixed(1))} g protein, target ${state.proteinGoal} g`);
   $('#protein-note').textContent=entries.some(e=>missingProtein(e.meal))?'?':'';
   const hasCarbs=entries.some(e=>!missingCarbs(e.meal)), hasFat=entries.some(e=>!missingFat(e.meal));

diff --git a/README.md b/README.md
@@ -1,11 +1,11 @@
 # Dayplate
 
-A local food and weight journal for Mac and iPhone. Warm colors, yellow nutrition pie charts, and compact phone screens.
+A local food and weight journal for Mac and iPhone. Warm colors, yellow circular nutrition charts, and compact phone screens.
 
 ![Dayplate desktop journal](screenshots/desktop-journal.png)
 
 <p>
-  <img src="screenshots/mobile-journal.png" width="23%" alt="iPhone journal with calorie and protein pie charts">
+  <img src="screenshots/mobile-journal.png" width="23%" alt="iPhone journal with calorie and protein progress rings">
   <img src="screenshots/mobile-analytics.png" width="23%" alt="iPhone nutrition averages and intake chart">
   <img src="screenshots/mobile-weight.png" width="23%" alt="iPhone weight trend and weigh-ins">
 </p>
@@ -14,7 +14,7 @@ A local food and weight journal for Mac and iPhone. Warm colors, yellow nutritio
 
 ## Features
 
-- Yellow calorie and protein pie charts with editable daily targets; carbs and fat totals.
+- Yellow calorie and protein progress rings with editable daily targets; carbs and fat totals.
 - Saved recipes, ingredients, fractional portions, and dated meal logs.
 - Nutrition averages, total history, target counts, and daily charts across 7 days, 30 days, or all history.
 - Weight trends in lb or kg, with editable weigh-ins.
